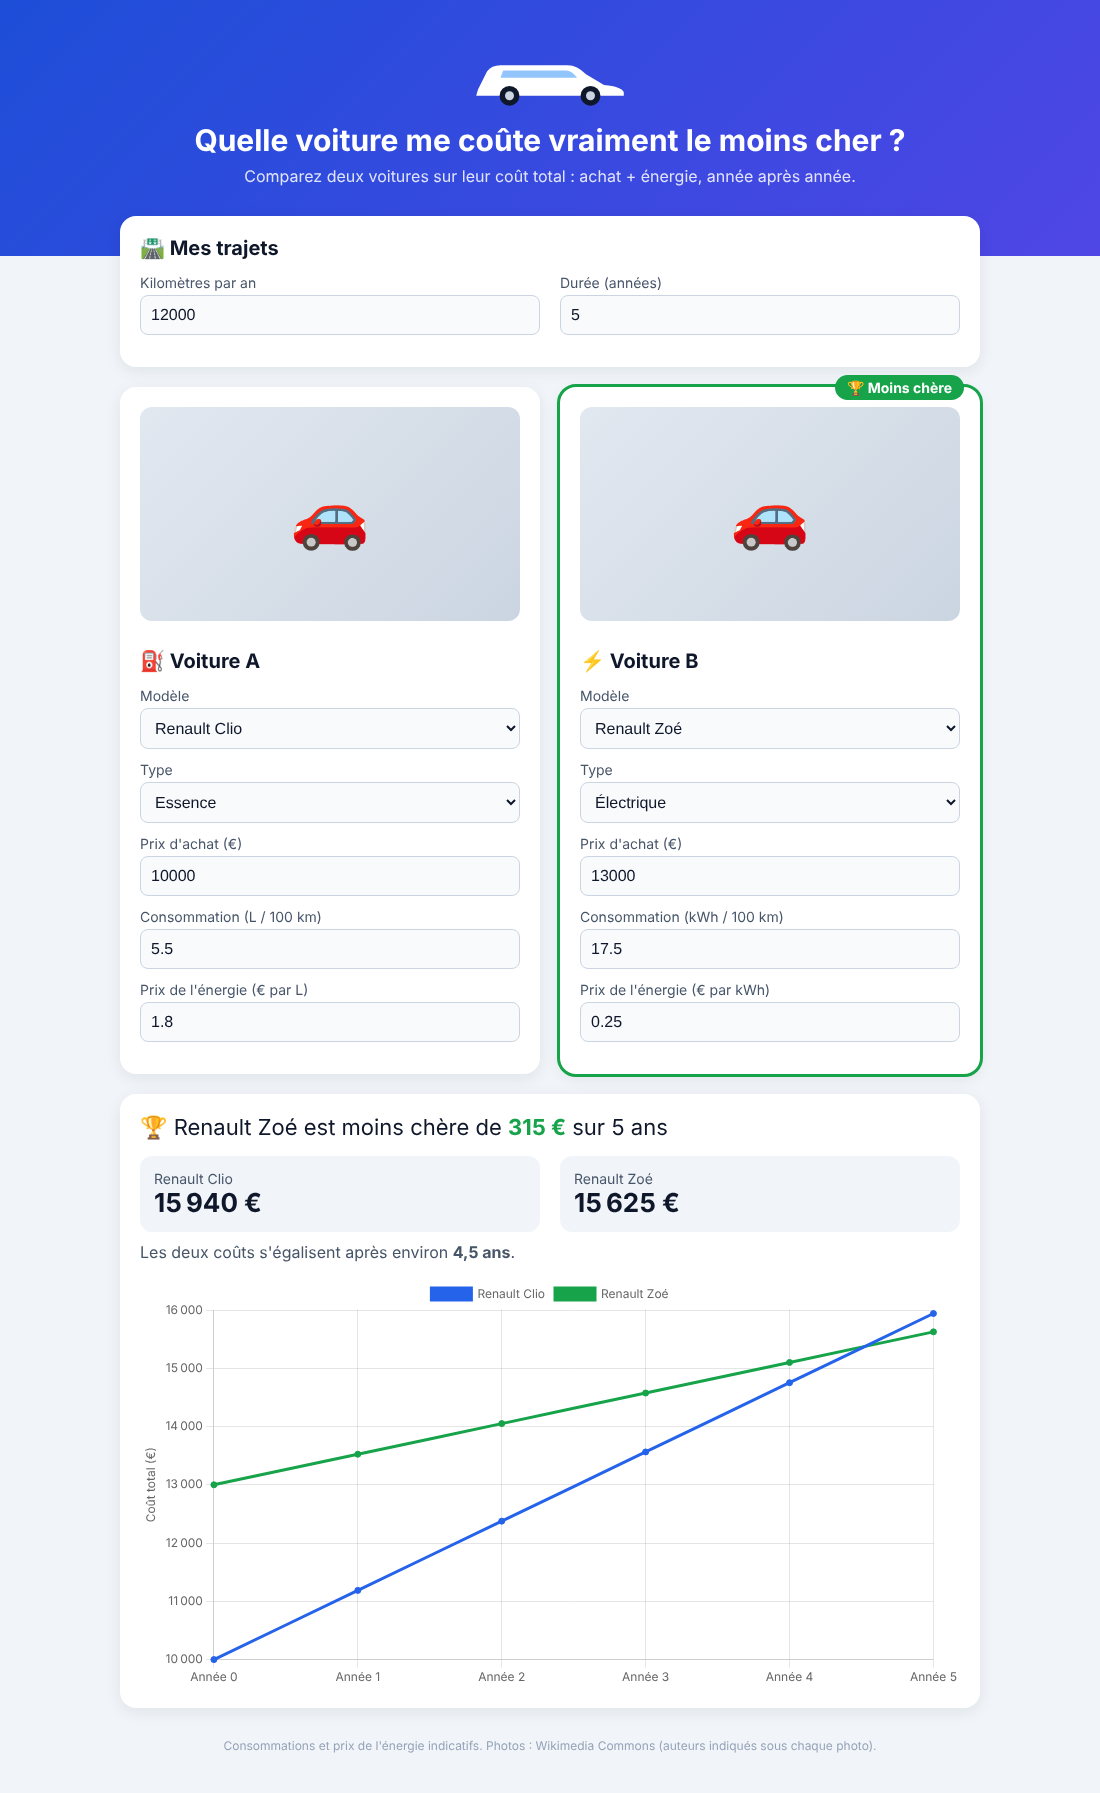
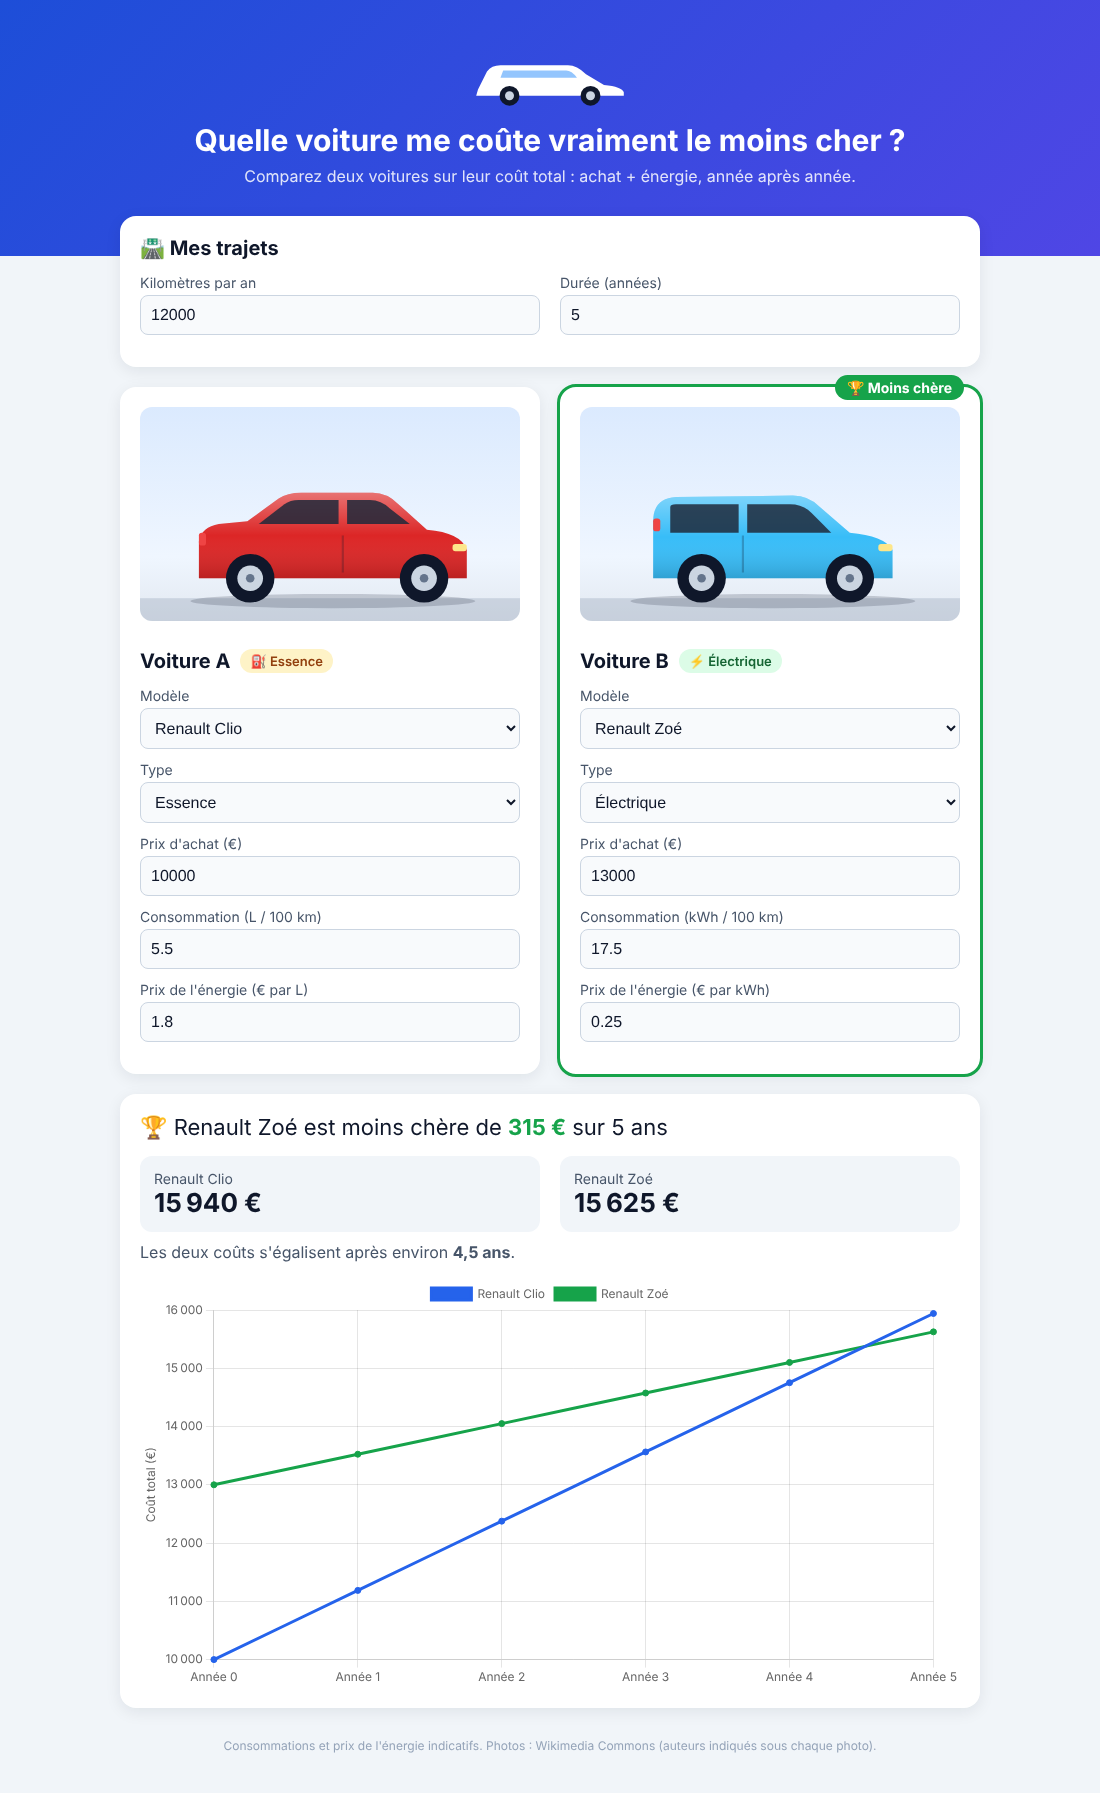
Add files via upload

Changed region(s): [[0.5255, 0.2499, 0.8964, 0.3748], [0.1236, 0.2499, 0.4945, 0.3748]]

diff --git a/script.js b/script.js
@@ -5,20 +5,69 @@
 // "photo" : le fichier à mettre dans le dossier images/
 // "credit" : l'auteur de la photo sur Wikimedia Commons (à remplir quand tu ajoutes la photo)
 const modeles = [
-  { nom: "Personnalisé (je remplis moi-même)" },
-  { nom: "Renault Clio",      type: "essence",    conso: 5.5,  photo: "images/clio.jpg",     credit: "" },
-  { nom: "Peugeot 208",       type: "essence",    conso: 5.6,  photo: "images/208.jpg",      credit: "" },
-  { nom: "Dacia Sandero",     type: "essence",    conso: 5.7,  photo: "images/sandero.jpg",  credit: "" },
-  { nom: "Toyota Yaris",      type: "essence",    conso: 4.0,  photo: "images/yaris.jpg",    credit: "" },
-  { nom: "Volkswagen Golf",   type: "diesel",     conso: 4.6,  photo: "images/golf.jpg",     credit: "" },
-  { nom: "Peugeot 308",       type: "diesel",     conso: 4.8,  photo: "images/308.jpg",      credit: "" },
-  { nom: "Renault Zoé",       type: "electrique", conso: 17.5, photo: "images/zoe.jpg",      credit: "" },
-  { nom: "Peugeot e-208",     type: "electrique", conso: 15.5, photo: "images/e208.jpg",     credit: "" },
-  { nom: "Dacia Spring",      type: "electrique", conso: 14.0, photo: "images/spring.jpg",   credit: "" },
-  { nom: "Tesla Model 3",     type: "electrique", conso: 14.5, photo: "images/model3.jpg",   credit: "" }
+  { nom: "Personnalisé (je remplis moi-même)", forme: "compacte", couleur: "#94a3b8" },
+  { nom: "Renault Clio",    type: "essence",    conso: 5.5,  forme: "compacte", couleur: "#dc2626", photo: "images/clio.jpg",    credit: "" },
+  { nom: "Peugeot 208",     type: "essence",    conso: 5.6,  forme: "citadine", couleur: "#eab308", photo: "images/208.jpg",     credit: "" },
+  { nom: "Dacia Sandero",   type: "essence",    conso: 5.7,  forme: "compacte", couleur: "#ea580c", photo: "images/sandero.jpg", credit: "" },
+  { nom: "Toyota Yaris",    type: "essence",    conso: 4.0,  forme: "citadine", couleur: "#0d9488", photo: "images/yaris.jpg",   credit: "" },
+  { nom: "Volkswagen Golf", type: "diesel",     conso: 4.6,  forme: "compacte", couleur: "#2563eb", photo: "images/golf.jpg",    credit: "" },
+  { nom: "Peugeot 308",     type: "diesel",     conso: 4.8,  forme: "compacte", couleur: "#475569", photo: "images/308.jpg",     credit: "" },
+  { nom: "Renault Zoé",     type: "electrique", conso: 17.5, forme: "citadine", couleur: "#38bdf8", photo: "images/zoe.jpg",     credit: "" },
+  { nom: "Peugeot e-208",   type: "electrique", conso: 15.5, forme: "citadine", couleur: "#16a34a", photo: "images/e208.jpg",    credit: "" },
+  { nom: "Dacia Spring",    type: "electrique", conso: 14.0, forme: "citadine", couleur: "#7c3aed", photo: "images/spring.jpg",  credit: "" },
+  { nom: "Tesla Model 3",   type: "electrique", conso: 14.5, forme: "berline",  couleur: "#111827", photo: "images/model3.jpg",  credit: "" }
 ];
 
-const icones = { essence: "⛽", diesel: "🛢", electrique: "⚡" };
+// =====================================================
+// DESSINS DES VOITURES (en SVG, faits maison)
+// =====================================================
+// Chaque forme : la carrosserie, les vitres, la position des roues, des phares et des feux.
+const formes = {
+  citadine: {
+    caisse: "M38 90 L38 50 Q38 34 54 33 L136 32 Q147 32 155 40 L176 58 Q200 60 206 70 L206 90 Z",
+    vitres: ["M50 40 Q50 38 54 38 L98 38 L98 58 L50 58 Z", "M104 38 L134 38 Q143 38 149 44 L163 58 L104 58 Z"],
+    roues: [72, 176], phare: [196, 66], feu: [38, 48], porte: 101
+  },
+  compacte: {
+    caisse: "M28 90 L28 64 Q30 54 42 52 L62 50 L84 34 Q90 30 100 30 L150 30 Q160 30 168 38 L188 56 Q212 58 216 70 L216 90 Z",
+    vitres: ["M70 52 L88 38 Q92 35 98 35 L126 35 L126 52 Z", "M132 35 L148 35 Q156 35 162 41 L176 52 L132 52 Z"],
+    roues: [64, 186], phare: [206, 66], feu: [28, 58], porte: 129
+  },
+  berline: {
+    caisse: "M16 90 L16 64 Q16 56 28 56 L62 56 L84 34 Q90 31 100 31 L148 31 Q158 31 166 39 L184 56 Q214 58 222 68 L222 90 Z",
+    vitres: ["M70 54 L88 38 Q91 36 96 36 L124 36 L124 54 Z", "M130 36 L150 36 Q156 36 162 42 L174 54 L130 54 Z"],
+    roues: [56, 186], phare: [212, 64], feu: [16, 60], porte: 127
+  }
+};
+
+function dessinVoiture(modele) {
+  const f = formes[modele.forme] || formes.compacte;
+  const roue = (x) => `
+    <circle cx="${x}" cy="90" r="17" fill="#0f172a"/>
+    <circle cx="${x}" cy="90" r="9" fill="#cbd5e1"/>
+    <circle cx="${x}" cy="90" r="3" fill="#64748b"/>`;
+  return `
+    <svg viewBox="0 0 240 120" class="dessin" overflow="visible" aria-hidden="true">
+      <rect x="-200" y="104" width="640" height="40" fill="#94a3b8" opacity="0.35"/>
+      <ellipse cx="122" cy="106" rx="100" ry="5" fill="#0f172a" opacity="0.18"/>
+      <path d="${f.caisse}" fill="${modele.couleur}"/>
+      <path d="${f.caisse}" fill="url(#reflet)"/>
+      ${f.vitres.map((v) => `<path d="${v}" fill="#1e293b" opacity="0.85"/>`).join("")}
+      <line x1="${f.porte}" y1="60" x2="${f.porte}" y2="86" stroke="#0f172a" stroke-opacity="0.25" stroke-width="1.5"/>
+      <rect x="${f.phare[0]}" y="${f.phare[1]}" width="10" height="5" rx="2" fill="#fde68a"/>
+      <rect x="${f.feu[0]}" y="${f.feu[1]}" width="5" height="9" rx="2" fill="#ef4444"/>
+      ${f.roues.map(roue).join("")}
+      <defs>
+        <linearGradient id="reflet" x1="0" y1="0" x2="0" y2="1">
+          <stop offset="0" stop-color="#ffffff" stop-opacity="0.35"/>
+          <stop offset="0.5" stop-color="#ffffff" stop-opacity="0"/>
+          <stop offset="1" stop-color="#000000" stop-opacity="0.15"/>
+        </linearGradient>
+      </defs>
+    </svg>`;
+}
+
+const icones = { essence: "⛽ Essence", diesel: "🛢 Diesel", electrique: "⚡ Électrique" };
 const unites = { essence: "L", diesel: "L", electrique: "kWh" };
 const prixParDefaut = { essence: 1.80, diesel: 1.70, electrique: 0.25 }; // valeurs indicatives
 
@@ -73,6 +122,7 @@ function remplirListe(lettre) {
 function afficherType(lettre) {
   const type = el("type" + lettre).value;
   el("icone" + lettre).textContent = icones[type];
+  el("icone" + lettre).className = "badge-type " + type;
   el("unite" + lettre).textContent = unites[type];
   el("unite2" + lettre).textContent = unites[type];
 }
@@ -83,6 +133,7 @@ function afficherPhoto(lettre, modele) {
   const vide = el("vide" + lettre);
   const credit = el("credit" + lettre);
 
+  vide.innerHTML = dessinVoiture(modele);
   credit.textContent = modele.credit ? "Photo : " + modele.credit + " / Wikimedia Commons" : "";
 
   if (!modele.photo) {

diff --git a/index.html b/index.html
@@ -37,10 +37,10 @@
       <section class="carte voiture" id="carteA">
         <div class="photo">
           <img id="photoA" alt="">
-          <span class="photo-vide" id="videA">🚗</span>
+          <div class="photo-vide" id="videA"></div>
         </div>
         <p class="credit" id="creditA"></p>
-        <h2><span id="iconeA">⛽</span> Voiture A</h2>
+        <h2>Voiture A <span id="iconeA" class="badge-type"></span></h2>
         <label>Modèle <select id="modeleA"></select></label>
         <label>Type
           <select id="typeA">
@@ -57,10 +57,10 @@
       <section class="carte voiture" id="carteB">
         <div class="photo">
           <img id="photoB" alt="">
-          <span class="photo-vide" id="videB">🚗</span>
+          <div class="photo-vide" id="videB"></div>
         </div>
         <p class="credit" id="creditB"></p>
-        <h2><span id="iconeB">⚡</span> Voiture B</h2>
+        <h2>Voiture B <span id="iconeB" class="badge-type"></span></h2>
         <label>Modèle <select id="modeleB"></select></label>
         <label>Type
           <select id="typeB">

diff --git a/style.css b/style.css
@@ -106,7 +106,7 @@ select:focus {
   aspect-ratio: 16 / 9;
   border-radius: 12px;
   overflow: hidden;
-  background: linear-gradient(135deg, #e2e8f0, #cbd5e1);
+  background: #e2e8f0;
   margin-bottom: 4px;
 }
 
@@ -121,10 +121,33 @@ select:focus {
   width: 100%;
   height: 100%;
   display: flex;
-  align-items: center;
+  align-items: flex-end;
   justify-content: center;
-  font-size: 64px;
+  background: linear-gradient(180deg, #dbeafe 0%, #eff6ff 70%, #e2e8f0 100%);
 }
+
+.dessin {
+  width: 90%;
+  height: auto;
+}
+
+/* ===== Badge du type (essence, diesel, électrique) ===== */
+.carte h2 {
+  display: flex;
+  align-items: center;
+  gap: 10px;
+}
+
+.badge-type {
+  font-size: 13px;
+  font-weight: 600;
+  padding: 4px 10px;
+  border-radius: 20px;
+}
+
+.badge-type.essence { background: #fef3c7; color: #92400e; }
+.badge-type.diesel { background: #e2e8f0; color: #334155; }
+.badge-type.electrique { background: #dcfce7; color: #166534; }
 
 .credit {
   font-size: 11px;

diff --git a/README.md b/README.md
@@ -2,7 +2,7 @@
 
 Quelle voiture coûte vraiment le moins cher ? Ce site compare deux voitures sur leur **coût total** (prix d'achat + énergie), année après année, en fonction des kilomètres parcourus.
 
-👉 **Démo en ligne :** [https://k-ami-la.github.io/Cost_Car/)
+👉 Démo en ligne : https://k-ami-la.github.io/Cost_Car/
 
 ![Capture d'écran](capture.png)
 
